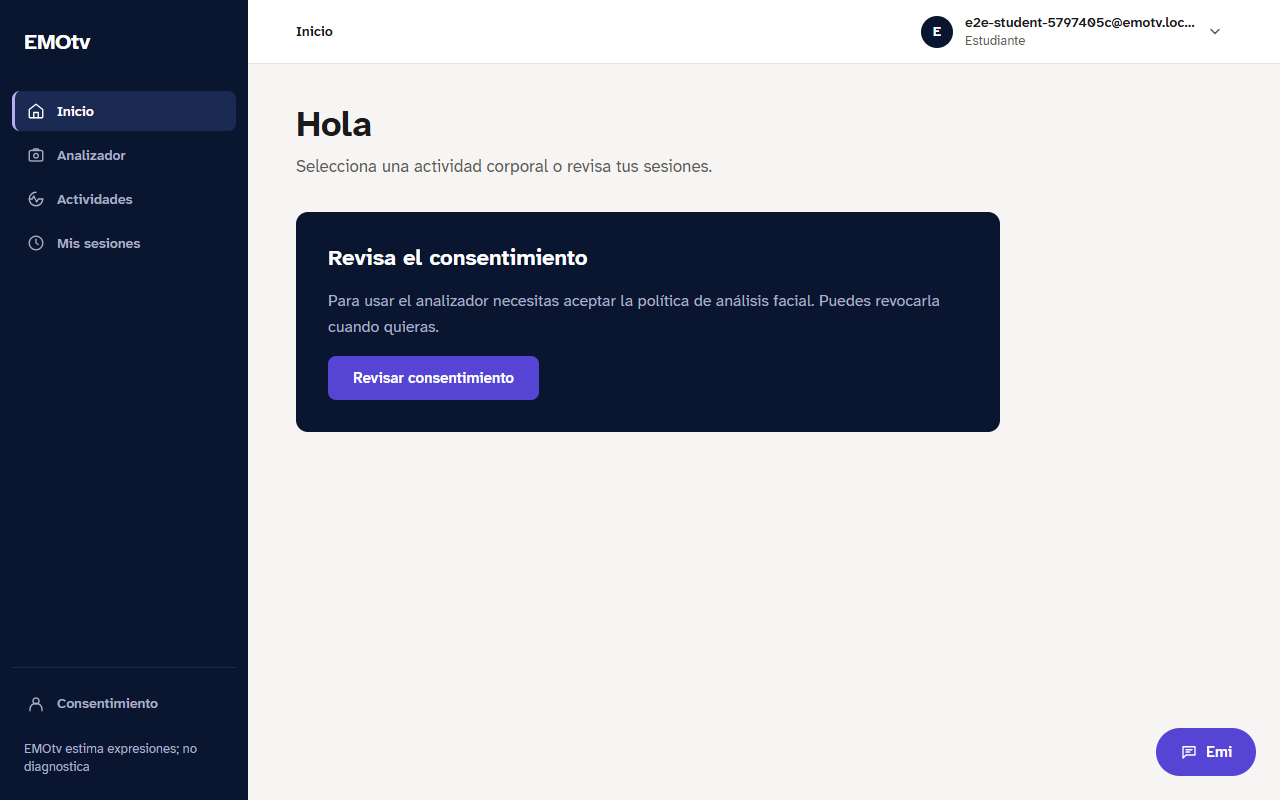
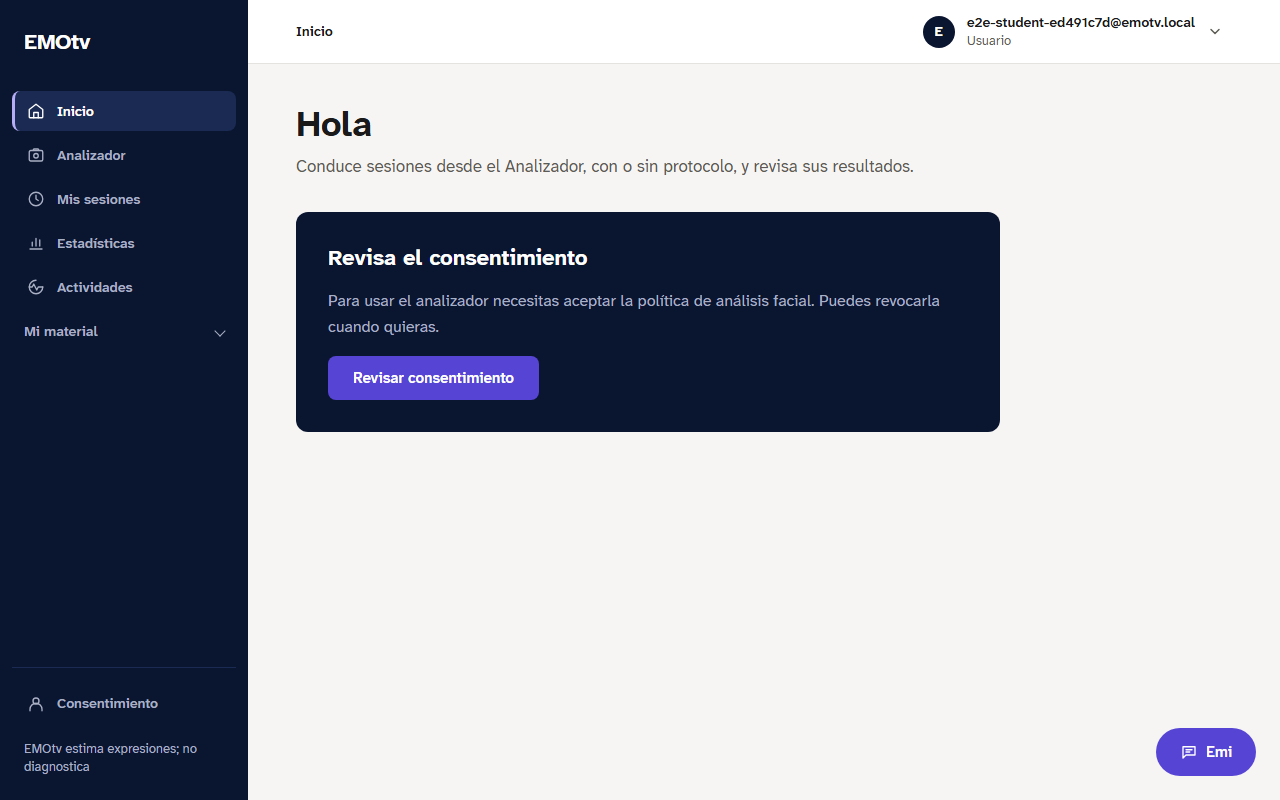
docs: actualiza las capturas con sesiones por código, estadísticas con gráficos, material, exámenes y compromiso

diff --git a/web/e2e/screenshots.spec.ts b/web/e2e/screenshots.spec.ts
@@ -1,6 +1,6 @@
-import { expect, test, type Page } from "@playwright/test";
+import { expect, test, type APIRequestContext, type Page } from "@playwright/test";
 import { fileURLToPath } from "node:url";
-import { acceptConsent, assignStudent, createAccount, loginToken, readyAccount, signIn, studentIdOf, withToken } from "./support/api";
+import { acceptConsent, adminAccount, assignStudent, createAccount, loginToken, readyAccount, signIn, studentIdOf, withToken } from "./support/api";
 import { env } from "./support/env";
 import { startFakeN8n } from "./support/fakeN8n";
 
@@ -10,6 +10,29 @@ import { startFakeN8n } from "./support/fakeN8n";
  * (e2e-…@emotv.local) y la cámara es el video simulado sin persona.
  */
 const outDir = fileURLToPath(new URL("../../docs/thesis-evidence/screenshots/", import.meta.url));
+
+/** Acepta por API el compromiso de confidencialidad vigente: sin él no se inician sesiones. */
+async function acceptCommitment(api: APIRequestContext) {
+  const commitment = await (await api.get("/commitment")).json() as { version: string | null };
+  if (commitment.version) await api.post("/commitment/accept", { data: { version: commitment.version } });
+}
+
+/** Sesiones propias canceladas, sin cámara: muestran códigos y estados reales sin datos personales. */
+async function cancelledSessions(api: APIRequestContext, count: number): Promise<string[]> {
+  const ids: string[] = [];
+  for (let index = 0; index < count; index++) {
+    const response = await api.post("/sessions", { data: { session_type: "propia", authorization_confirmed: true } });
+    expect(response.status(), await response.text()).toBe(201);
+    const { id } = await response.json() as { id: string };
+    await api.post(`/sessions/${id}/cancel`);
+    ids.push(id);
+  }
+  return ids;
+}
+
+async function heading(page: Page) {
+  await expect(page.getByRole("heading", { level: 1 }).first()).toBeVisible();
+}
 
 test.describe("capturas para la tesis", () => {
   test.skip(process.env.E2E_SCREENSHOTS !== "1", "Activa E2E_SCREENSHOTS=1 para regenerar las capturas.");
@@ -31,6 +54,12 @@ test.describe("capturas para la tesis", () => {
 
     const student = await readyAccount("student");
     await signIn(page, student.email, student.password);
+    const commitment = page.getByRole("dialog").filter({ has: page.getByRole("heading", { name: "Compromiso de confidencialidad" }) });
+    await expect(commitment).toBeVisible();
+    await shot(page, "29-compromiso-confidencialidad", false);
+    await commitment.getByRole("checkbox", { name: /Leí el compromiso/ }).check();
+    await commitment.getByRole("button", { name: "Aceptar el compromiso" }).click();
+    await expect(commitment).toBeHidden();
     await expect(page.getByRole("heading", { level: 1, name: "Hola" })).toBeVisible();
     await shot(page, "03-inicio-sin-consentimiento");
 
@@ -80,28 +109,83 @@ test.describe("capturas para la tesis", () => {
     await shot(page, "13-analizador-360px");
   });
 
+  test("material, sesiones y estadísticas del usuario", async ({ page }) => {
+    const student = await readyAccount("student");
+    await acceptConsent(student);
+    const [first] = await withToken(await loginToken(student.email, student.password), async (api) => {
+      await acceptCommitment(api);
+      expect((await api.post("/questionnaires/starter")).status()).toBe(201);
+      return cancelledSessions(api, 3);
+    });
+
+    await signIn(page, student.email, student.password);
+    await page.goto("/sessions");
+    await heading(page);
+    await shot(page, "19-mis-sesiones-con-codigo");
+    await page.goto(`/sessions/${first}`);
+    await heading(page);
+    await shot(page, "20-sesion-detalle");
+
+    await page.goto("/statistics");
+    await expect(page.getByRole("list", { name: "Sesiones completadas e interrumpidas" })).toBeVisible();
+    await shot(page, "21-estadisticas");
+
+    await page.goto("/questionnaires");
+    await heading(page);
+    await shot(page, "22-cuestionarios");
+    await page.goto("/protocols");
+    await heading(page);
+    await shot(page, "23-protocolos");
+    await page.goto("/images");
+    await heading(page);
+    await shot(page, "24-imagenes-propias");
+    await page.goto("/analysis");
+    await heading(page);
+    await shot(page, "25-analizador-con-quien");
+  });
+
   test("vistas de Psicología y Administración", async ({ page }) => {
     const student = await readyAccount("student");
     await acceptConsent(student);
     const studentId = await studentIdOf(student);
-    // Una sesión cancelada sin expresión: el historial muestra un estado real sin datos personales.
+    // Sesiones canceladas sin expresión: el historial muestra estados reales sin datos personales.
     await withToken(await loginToken(student.email, student.password), async (api) => {
-      const created = await (await api.post("/sessions", { data: {} })).json() as { id: string };
-      await api.post(`/sessions/${created.id}/cancel`);
+      await acceptCommitment(api);
+      await cancelledSessions(api, 2);
     });
     const psychologist = await readyAccount("psychologist");
     await assignStudent(psychologist, studentId);
 
     await signIn(page, psychologist.email, psychologist.password);
+    await withToken(await loginToken(psychologist.email, psychologist.password), async (api) => {
+      await acceptCommitment(api);
+      expect((await api.post("/exams")).status()).toBe(201);
+    });
     await page.goto("/students");
-    await expect(page.getByText(student.studentCode!, { exact: true })).toBeVisible();
+    await heading(page);
     await shot(page, "14-psicologia-estudiantes");
-    await page.getByRole("link", { name: `Ver sesiones del estudiante ${student.studentCode}` }).click();
+    await page.goto("/sessions");
+    await heading(page);
     await shot(page, "15-psicologia-sesiones-del-estudiante");
+    await page.goto("/images/review");
+    await heading(page);
+    await shot(page, "26-docente-imagenes-por-revisar");
+    await page.goto("/exams");
+    await heading(page);
+    await shot(page, "27-docente-examenes");
+    await page.goto("/statistics");
+    await heading(page);
+    await page.getByRole("radio", { name: "Mi grupo" }).check({ force: true });
+    await expect(page.getByRole("list", { name: "Sesiones completadas e interrumpidas" })).toBeVisible();
+    await shot(page, "28-docente-estadisticas-grupo");
+
+    const admin = await adminAccount();
+    await signIn(page, admin.email, admin.password);
+    await page.goto("/users");
+    await heading(page);
+    await shot(page, "16-admin-usuarios");
 
     await signIn(page, env.adminEmail, env.adminPassword);
-    await page.goto("/users");
-    await shot(page, "16-admin-usuarios");
     await page.goto("/admin/activities");
     await shot(page, "17-admin-actividades");
     await page.goto("/admin/expressions");

diff --git a/web/e2e/support/api.ts b/web/e2e/support/api.ts
@@ -38,8 +38,37 @@ export async function withToken<T>(token: string, run: (api: APIRequestContext) 
   try { return await run(api); } finally { await api.dispose(); }
 }
 
-export async function adminToken(): Promise<string> {
+/** La cuenta de E2E_ADMIN_EMAIL es la de superadministrador (soporte técnico). */
+export async function superadminToken(): Promise<string> {
   return loginToken(env.adminEmail, env.adminPassword);
+}
+
+const ORG_ADMIN_EMAIL = "e2e-admin-org@emotv.local";
+let orgAdmin: Promise<Account> | undefined;
+
+/**
+ * Cuenta de administrador de la Facultad: crea cuentas de Usuario y Docente y arma los grupos.
+ * El superadministrador la crea (o le renueva la contraseña) una vez por proceso de pruebas.
+ */
+export function adminAccount(): Promise<Account> {
+  orgAdmin ??= (async () => {
+    const prepared = await withToken(await superadminToken(), async (api) => {
+      const users = await (await api.get("/users")).json() as { id: string; email: string }[];
+      const existing = users.find((item) => item.email === ORG_ADMIN_EMAIL);
+      const response = existing
+        ? await api.post(`/users/${encodeURIComponent(existing.id)}/reset-password`)
+        : await api.post("/users", { data: { email: ORG_ADMIN_EMAIL, role: "admin" } });
+      expect(response.ok(), await response.text()).toBe(true);
+      return await response.json() as { id: string; temporary_password: string };
+    });
+    return activate({ id: prepared.id, email: ORG_ADMIN_EMAIL, role: "admin", password: prepared.temporary_password });
+  })();
+  return orgAdmin;
+}
+
+export async function adminToken(): Promise<string> {
+  const admin = await adminAccount();
+  return loginToken(admin.email, admin.password);
 }
 
 /** Crea una cuenta con contraseña provisional (debe cambiarla en el primer acceso). */

diff --git a/web/e2e/global-setup.ts b/web/e2e/global-setup.ts
@@ -1,10 +1,10 @@
 import { request } from "@playwright/test";
 import { env } from "./support/env";
 
-/** Comprueba antes de empezar que el stack responde y que la cuenta de administración sirve. */
+/** Comprueba antes de empezar que el stack responde y que la cuenta de superadministrador sirve. */
 export default async function globalSetup() {
   if (!env.adminEmail || !env.adminPassword) {
-    throw new Error("Define E2E_ADMIN_EMAIL y E2E_ADMIN_PASSWORD (cuenta de administración que ya cambió su contraseña provisional). Ver docs/testing/e2e.md.");
+    throw new Error("Define E2E_ADMIN_EMAIL y E2E_ADMIN_PASSWORD (cuenta de superadministrador que ya cambió su contraseña provisional). Ver docs/testing/e2e.md.");
   }
   const api = await request.newContext({ baseURL: env.baseURL });
   try {
@@ -16,8 +16,8 @@ export default async function globalSetup() {
     const { access_token: token } = await login.json() as { access_token: string };
     const me = await api.get("/auth/me", { headers: { Authorization: `Bearer ${token}` } });
     const user = await me.json() as { role: string; must_change_password?: boolean };
-    if (user.role !== "admin") throw new Error("E2E_ADMIN_EMAIL no corresponde a una cuenta de administración.");
-    if (user.must_change_password) throw new Error("La cuenta de administración aún tiene la contraseña provisional; cámbiala en /first-access.");
+    if (user.role !== "superadmin") throw new Error("E2E_ADMIN_EMAIL no corresponde a la cuenta de superadministrador.");
+    if (user.must_change_password) throw new Error("La cuenta de superadministrador aún tiene la contraseña provisional; cámbiala en /first-access.");
   } finally {
     await api.dispose();
   }

diff --git a/web/e2e/analysis.spec.ts b/web/e2e/analysis.spec.ts
@@ -1,5 +1,5 @@
 import { expect, test, type Page } from "@playwright/test";
-import { acceptConsent, adminToken, readyAccount, signIn, withToken } from "./support/api";
+import { acceptConsent, readyAccount, signIn, superadminToken, withToken } from "./support/api";
 import { fakeCamera } from "./support/env";
 
 const camera = fakeCamera();
@@ -23,7 +23,7 @@ test.describe("análisis con la cámara simulada", () => {
 
   let labels: string[] = [];
   test.beforeAll(async () => {
-    labels = await withToken(await adminToken(), async (api) =>
+    labels = await withToken(await superadminToken(), async (api) =>
       (await (await api.get("/expressions")).json() as { label_es: string }[]).map((item) => item.label_es));
   });
 

diff --git a/docs/thesis-evidence/README.md b/docs/thesis-evidence/README.md
@@ -8,7 +8,7 @@ repositorio, sin datos personales reales.
 | [chronology.md](chronology.md) | cronología real de desarrollo extraída de `git log` (fecha, commit, cambio) |
 | [test-results.md](test-results.md) | resultados de las pruebas del 10 de octubre de 2026, con fecha y comandos |
 | [benchmark-ferplus.md](benchmark-ferplus.md) | benchmark de FER+ como medición en el entorno evaluado, no como garantía |
-| [screenshots/](screenshots/) | 18 capturas de cada vista, generadas con Playwright con cuentas ficticias |
+| [screenshots/](screenshots/) | 29 capturas de cada vista, generadas con Playwright con cuentas ficticias |
 | [diagrams/](diagrams/) | arquitectura, flujo del estudiante y modelo de datos en HTML imprimible sin conexión |
 
 Los diagramas de texto equivalentes están en
@@ -70,7 +70,7 @@ licencia.
 | --- | --- |
 | `01-login.png` | inicio de sesión |
 | `02-primer-acceso.png` | cambio de la contraseña provisional |
-| `03-inicio-sin-consentimiento.png` | inicio del estudiante sin consentimiento |
+| `03-inicio-sin-consentimiento.png` | inicio del usuario sin consentimiento |
 | `04-consentimiento.png`, `05-consentimiento-modal.png` | consentimiento y lectura de la política |
 | `06-analizador-requisitos.png`, `07-analizador-camara-simulada.png` | analizador con guía previa y requisitos |
 | `08-inicio-primeros-pasos.png` | inicio con los tres pasos del recorrido |
@@ -78,8 +78,17 @@ licencia.
 | `11-mis-sesiones-vacio.png` | historial vacío |
 | `12-emi.png` | Emi (respuesta del n8n falso) |
 | `13-analizador-360px.png` | analizador en pantalla de 360 px |
-| `14-psicologia-estudiantes.png`, `15-psicologia-sesiones-del-estudiante.png` | vistas de Psicología |
-| `16-admin-usuarios.png`, `17-admin-actividades.png`, `18-admin-expresiones.png` | vistas de administración |
+| `14-psicologia-estudiantes.png`, `15-psicologia-sesiones-del-estudiante.png` | grupo del docente y sesiones de su grupo |
+| `16-admin-usuarios.png` | cuentas y grupos (administrador de la Facultad) |
+| `17-admin-actividades.png`, `18-admin-expresiones.png` | actividades y expresiones (superadministrador) |
+| `19-mis-sesiones-con-codigo.png`, `20-sesion-detalle.png` | sesiones identificadas solo por su código y detalle de una sesión |
+| `21-estadisticas.png` | estadísticas agregadas con gráfico de barras (cuentan sesiones, no personas) |
+| `22-cuestionarios.png`, `23-protocolos.png`, `24-imagenes-propias.png` | material del usuario: cuestionarios, protocolos e imágenes propias |
+| `25-analizador-con-quien.png` | analizador con la pregunta «¿Con quién es la sesión?» |
+| `26-docente-imagenes-por-revisar.png` | imágenes de los usuarios que esperan la revisión del docente |
+| `27-docente-examenes.png` | exámenes simulados del docente |
+| `28-docente-estadisticas-grupo.png` | estadísticas del grupo del docente |
+| `29-compromiso-confidencialidad.png` | compromiso de confidencialidad antes de iniciar sesiones |
 
 ## Diagramas visuales
 
